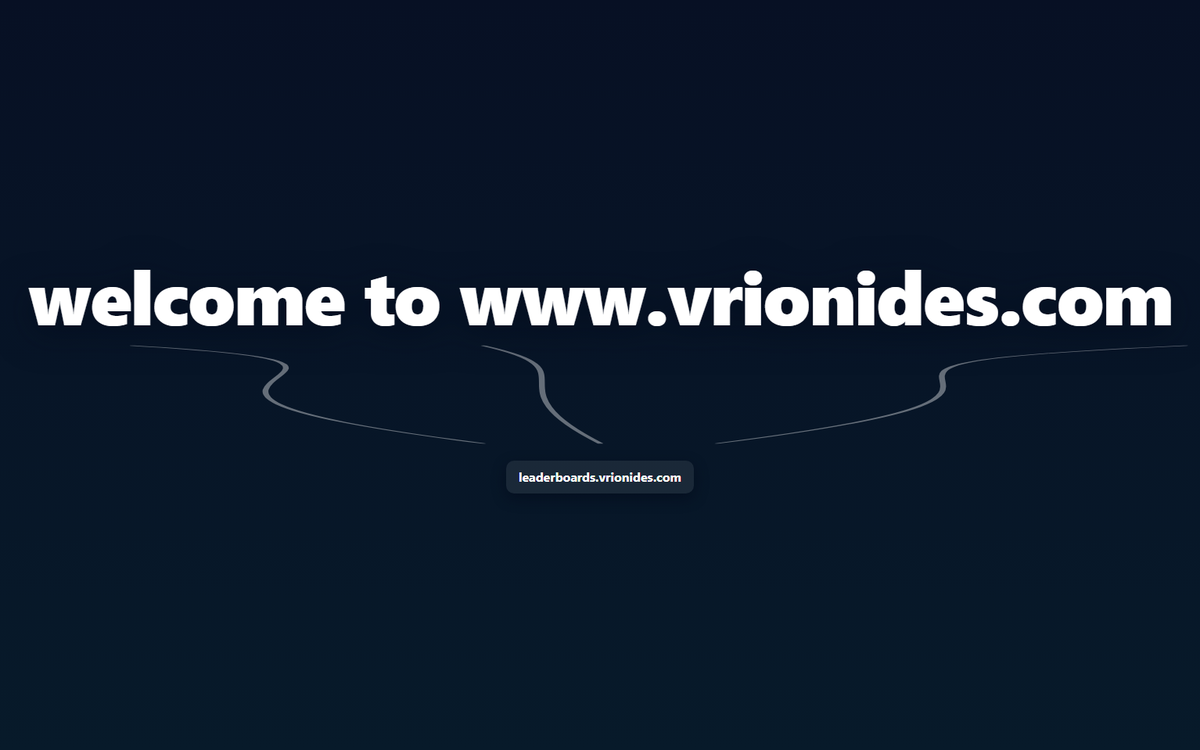
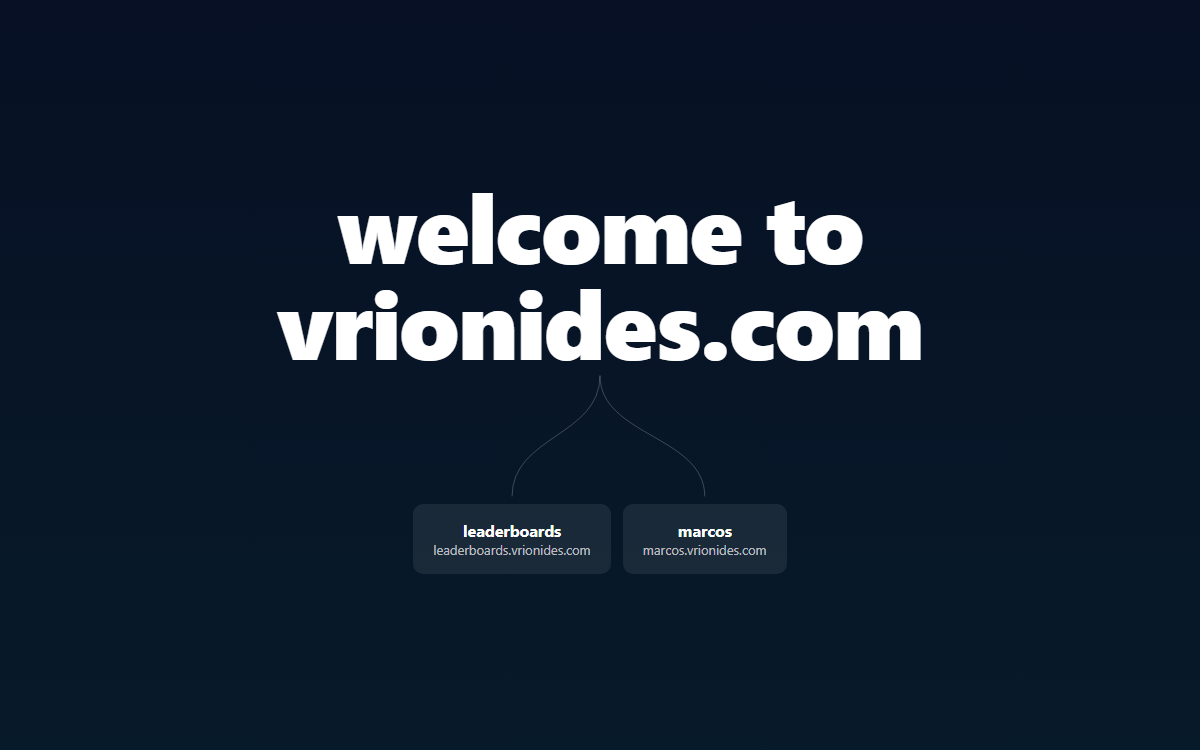
Update vrionides.com project title and screenshot

diff --git a/src/Projects/Projects.js b/src/Projects/Projects.js
@@ -23,7 +23,7 @@ const projects = [
 		link: "https://leaderboards.vrionides.com",
 	},
 	{
-		title: "www.vrionides.com",
+		title: "vrionides.com",
 		screenshot: VrionidesHome,
 		description:
 			"My personal site and project hub, linking out to the projects I host under the vrionides.com domain.",
